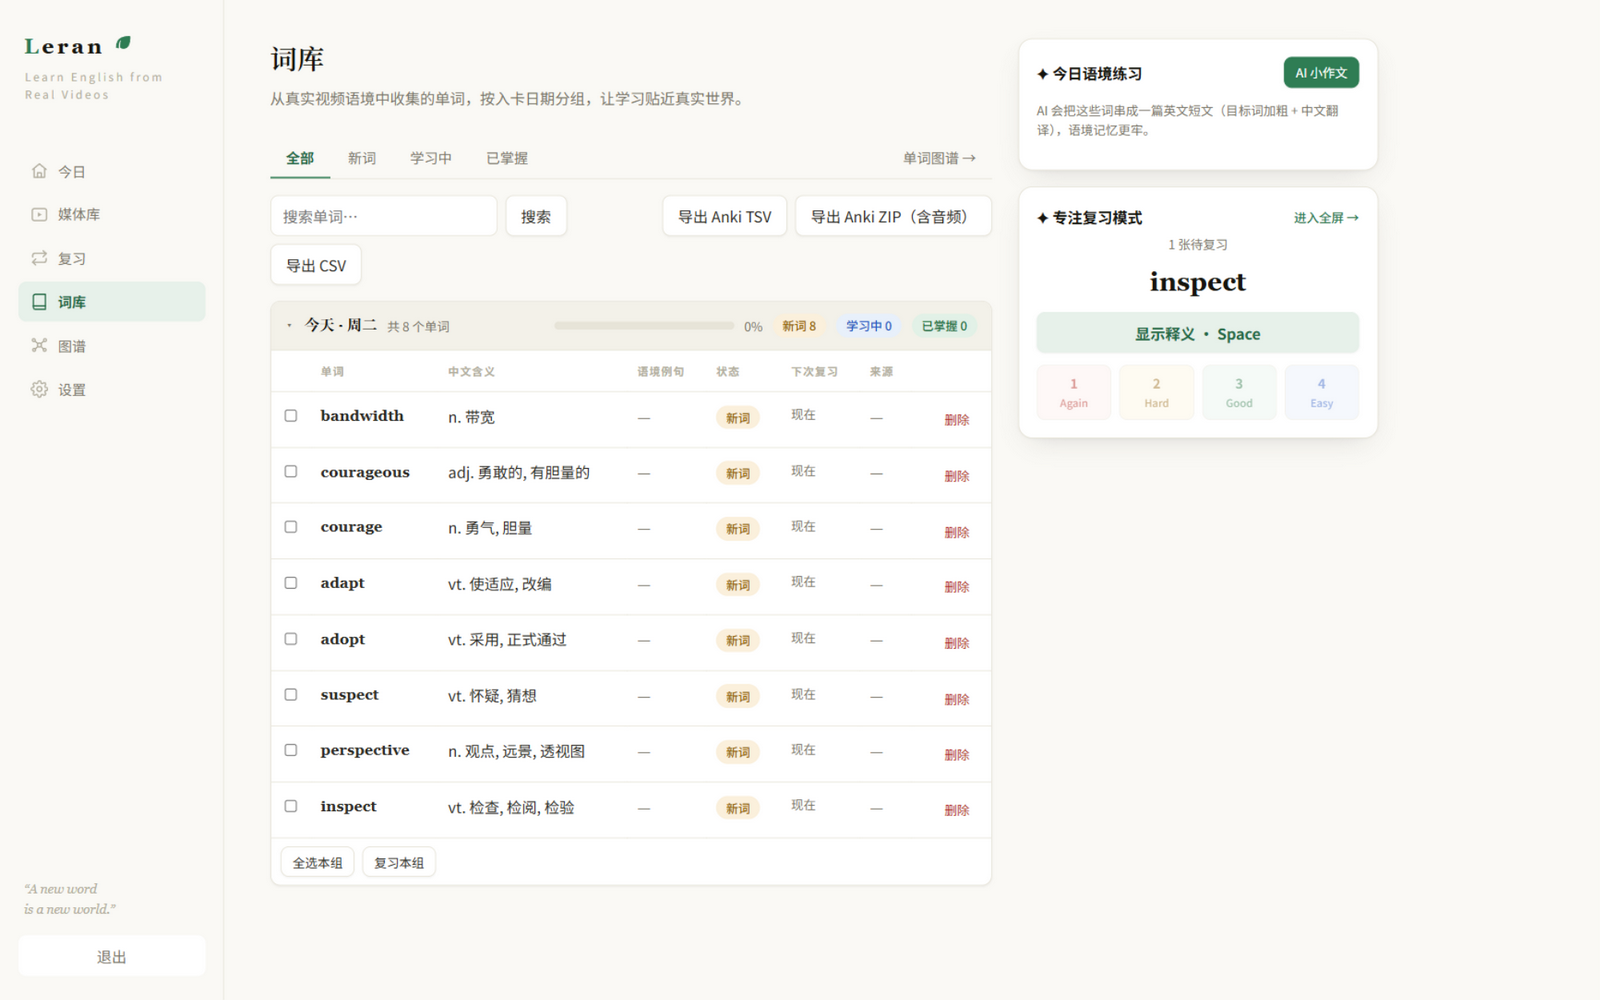
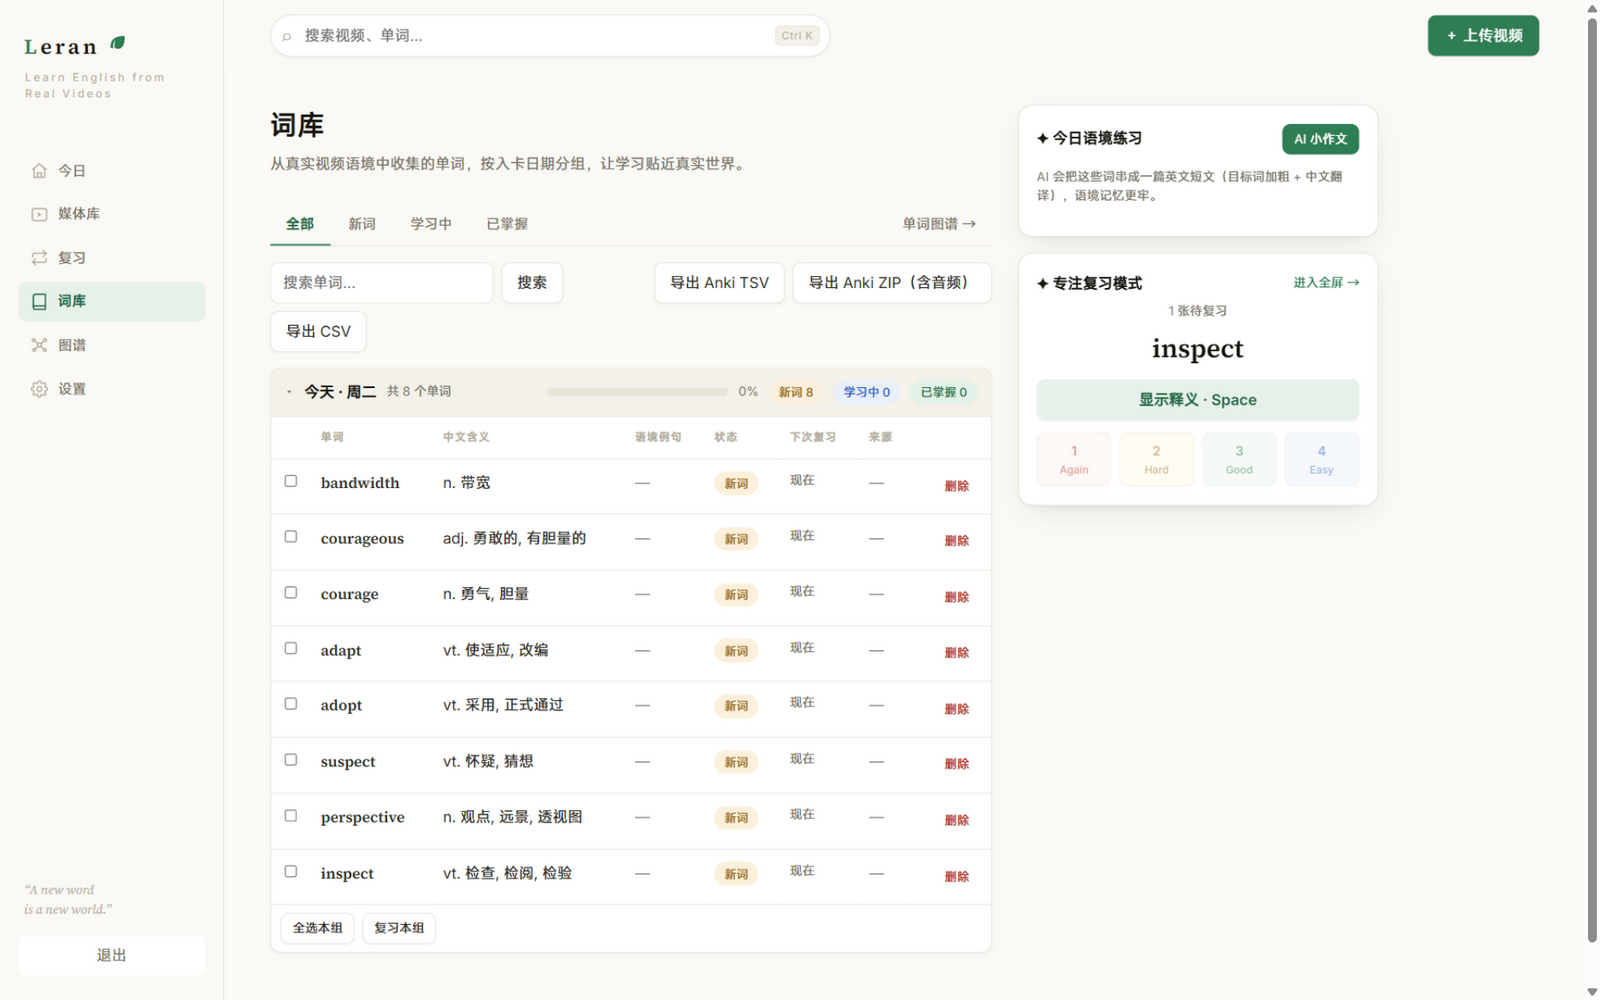
字体对齐设计稿：本地打包 Inter + Source Serif 4（OFL）
- 新增 @fontsource/inter、@fontsource/source-serif-4（本地打包，无 CDN 依赖）
- 中文标题（页面标题/分组日期/统计数字/进度环数字）改为无衬线加粗，与设计稿一致
- 衬线栈中文回退改为 sans 字体，避免中文字符落到宋体
- 英文展示词（词条/复习大词/小作文）保持衬线

diff --git a/apps/web/src/styles.css b/apps/web/src/styles.css
@@ -30,8 +30,12 @@
   --shadow: 0 1px 2px rgba(28, 27, 20, 0.04), 0 10px 28px -14px rgba(28, 27, 20, 0.2);
   --shadow-l: 0 2px 4px rgba(28, 27, 20, 0.05), 0 24px 52px -18px rgba(28, 27, 20, 0.28);
 
-  --font: Inter, "PingFang SC", "Noto Sans SC", "Microsoft YaHei", sans-serif;
-  --serif: "Source Serif 4", Charter, Georgia, "Songti SC", serif;
+  --font: Inter, "PingFang SC", "HarmonyOS Sans SC", "MiSans", "Noto Sans SC",
+    "Microsoft YaHei", sans-serif;
+  /* Latin display words use Source Serif; Chinese glyphs fall through to the
+     sans stack (mockups render Chinese headings/labels as bold sans). */
+  --serif: "Source Serif 4", Charter, Georgia, "PingFang SC", "HarmonyOS Sans SC",
+    "MiSans", "Microsoft YaHei", serif;
 
   --ease: cubic-bezier(0.2, 0.6, 0.2, 1);
 }
@@ -168,9 +172,9 @@ select:focus-visible {
 }
 
 .page-title {
-  font-family: var(--serif);
+  font-family: var(--font);
   font-size: 27px;
-  font-weight: 600;
+  font-weight: 700;
   letter-spacing: 0.01em;
   color: var(--n-900);
   margin: 0 0 6px;
@@ -1113,7 +1117,7 @@ select:focus-visible {
   font-size: 30px;
   font-weight: 700;
   color: var(--n-900);
-  font-family: var(--serif);
+  font-family: var(--font);
 }
 
 .review-stat-div {
@@ -1442,7 +1446,7 @@ select:focus-visible {
 .word-group-day {
   font-weight: 700;
   color: var(--n-900);
-  font-family: var(--serif);
+  font-family: var(--font);
   font-size: 15px;
 }
 

diff --git a/apps/web/src/main.tsx b/apps/web/src/main.tsx
@@ -2,6 +2,15 @@ import React from "react";
 import ReactDOM from "react-dom/client";
 import { BrowserRouter } from "react-router-dom";
 import App from "./App";
+// Bundled open-source fonts (OFL) — no CDN dependency.
+import "@fontsource/inter/400.css";
+import "@fontsource/inter/500.css";
+import "@fontsource/inter/600.css";
+import "@fontsource/inter/700.css";
+import "@fontsource/source-serif-4/400.css";
+import "@fontsource/source-serif-4/600.css";
+import "@fontsource/source-serif-4/700.css";
+import "@fontsource/source-serif-4/400-italic.css";
 import "./styles.css";
 
 ReactDOM.createRoot(document.getElementById("root")!).render(

diff --git a/apps/web/src/pages/Today.tsx b/apps/web/src/pages/Today.tsx
@@ -55,7 +55,7 @@ function ProgressRing({ done, total }: { done: number; total: number }) {
         fontSize={40}
         fontWeight={700}
         fill="var(--n-900)"
-        fontFamily="var(--serif)"
+        fontFamily="var(--font)"
       >
         {done}
       </text>
